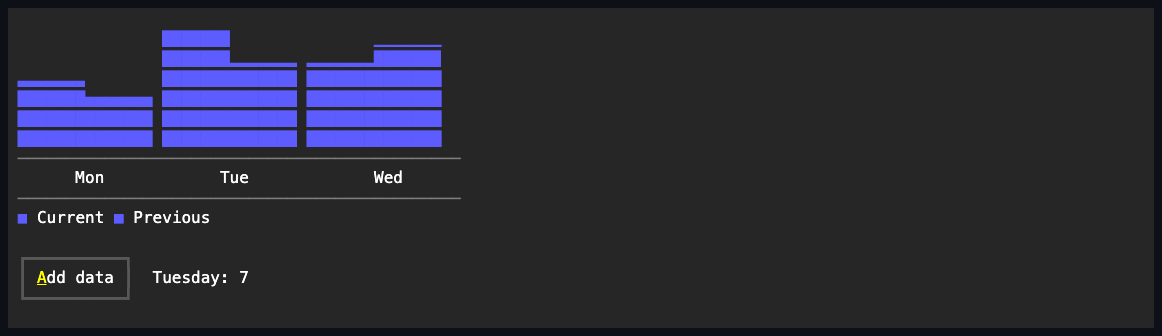
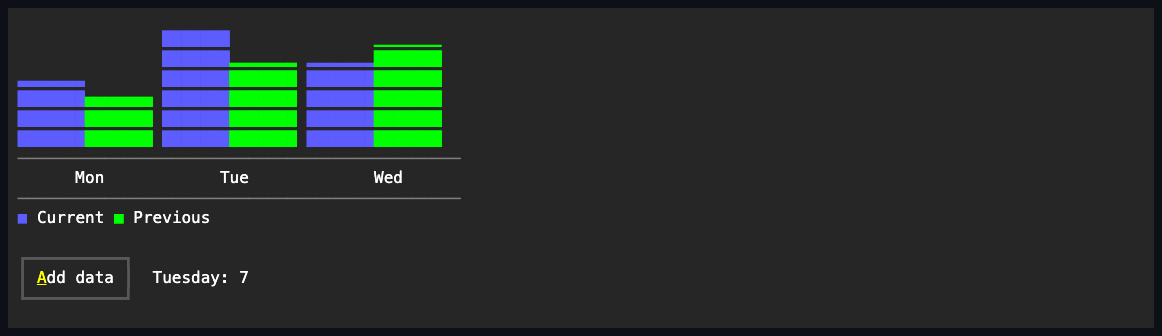
fix(showcase): stop hardcoding Info onto chart series that now collide with Blue
ChartStyle's primary series color moved to the chromatic Blue, and six of
the fifteen bundled themes resolve info and blue to the same literal - so
the bar-chart panes' second series, hardcoded to Info, rendered identical
to the first, with the flagship vertical-bar-chart capture contradicting
its own "series remain visually distinct" prose. The panes now let the
second series fall back to the chart's own series sequence (green), and
the sparkline legend swatch uses the blue markup tag its bars actually
render instead of an accent tag that only coincidentally matched before
the chromatic rework. The vertical-bar-chart and sparkline captures are
regenerated; the horizontal grouped example's fix is outside its page's
first-example capture crop, which is unchanged by design.

diff --git a/examples/Showcase/Panes/SparklinePane.cs b/examples/Showcase/Panes/SparklinePane.cs
@@ -22,7 +22,7 @@ internal sealed class SparklinePane: CompositeControlBase
             new ChartDataPoint("5", 6), new ChartDataPoint("6", 9)]);
         var compact = new Sparkline { Width = Length.Cells(18), Height = Length.Cells(2), Series = [series] };
         var wide = new Sparkline { Width = Length.Cells(42), Height = Length.Cells(4), Series = [series] };
-        var loadKey = new Text("<accent>■</accent> Load");
+        var loadKey = new Text("<blue>■</blue> Load");
         var status = new Text("Latest sample: 9");
         var add = new Button { Text = "&Add data" };
         add.Click += (_, _) =>

diff --git a/examples/Showcase/Panes/HorizontalBarChartPane.cs b/examples/Showcase/Panes/HorizontalBarChartPane.cs
@@ -55,10 +55,7 @@ internal sealed class HorizontalBarChartPane: CompositeControlBase
         var target = new ChartSeries("Target", [
             new ChartDataPoint("North", 10),
             new ChartDataPoint("South", 8),
-            new ChartDataPoint("West", 7)])
-        {
-            Color = new ControlColor(SemanticColor.Info)
-        };
+            new ChartDataPoint("West", 7)]);
         var grouped = new HorizontalBarChart
         {
             Width = Length.Cells(46),

diff --git a/examples/Showcase/Panes/VerticalBarChartPane.cs b/examples/Showcase/Panes/VerticalBarChartPane.cs
@@ -21,10 +21,7 @@ internal sealed class VerticalBarChartPane: CompositeControlBase
         var previous = new ChartSeries("Previous", [
             new ChartDataPoint("Mon", 3),
             new ChartDataPoint("Tue", 5),
-            new ChartDataPoint("Wed", 6)])
-        {
-            Color = new ControlColor(SemanticColor.Info)
-        };
+            new ChartDataPoint("Wed", 6)]);
         var grouped = new VerticalBarChart
         {
             Width = Length.Cells(46),
